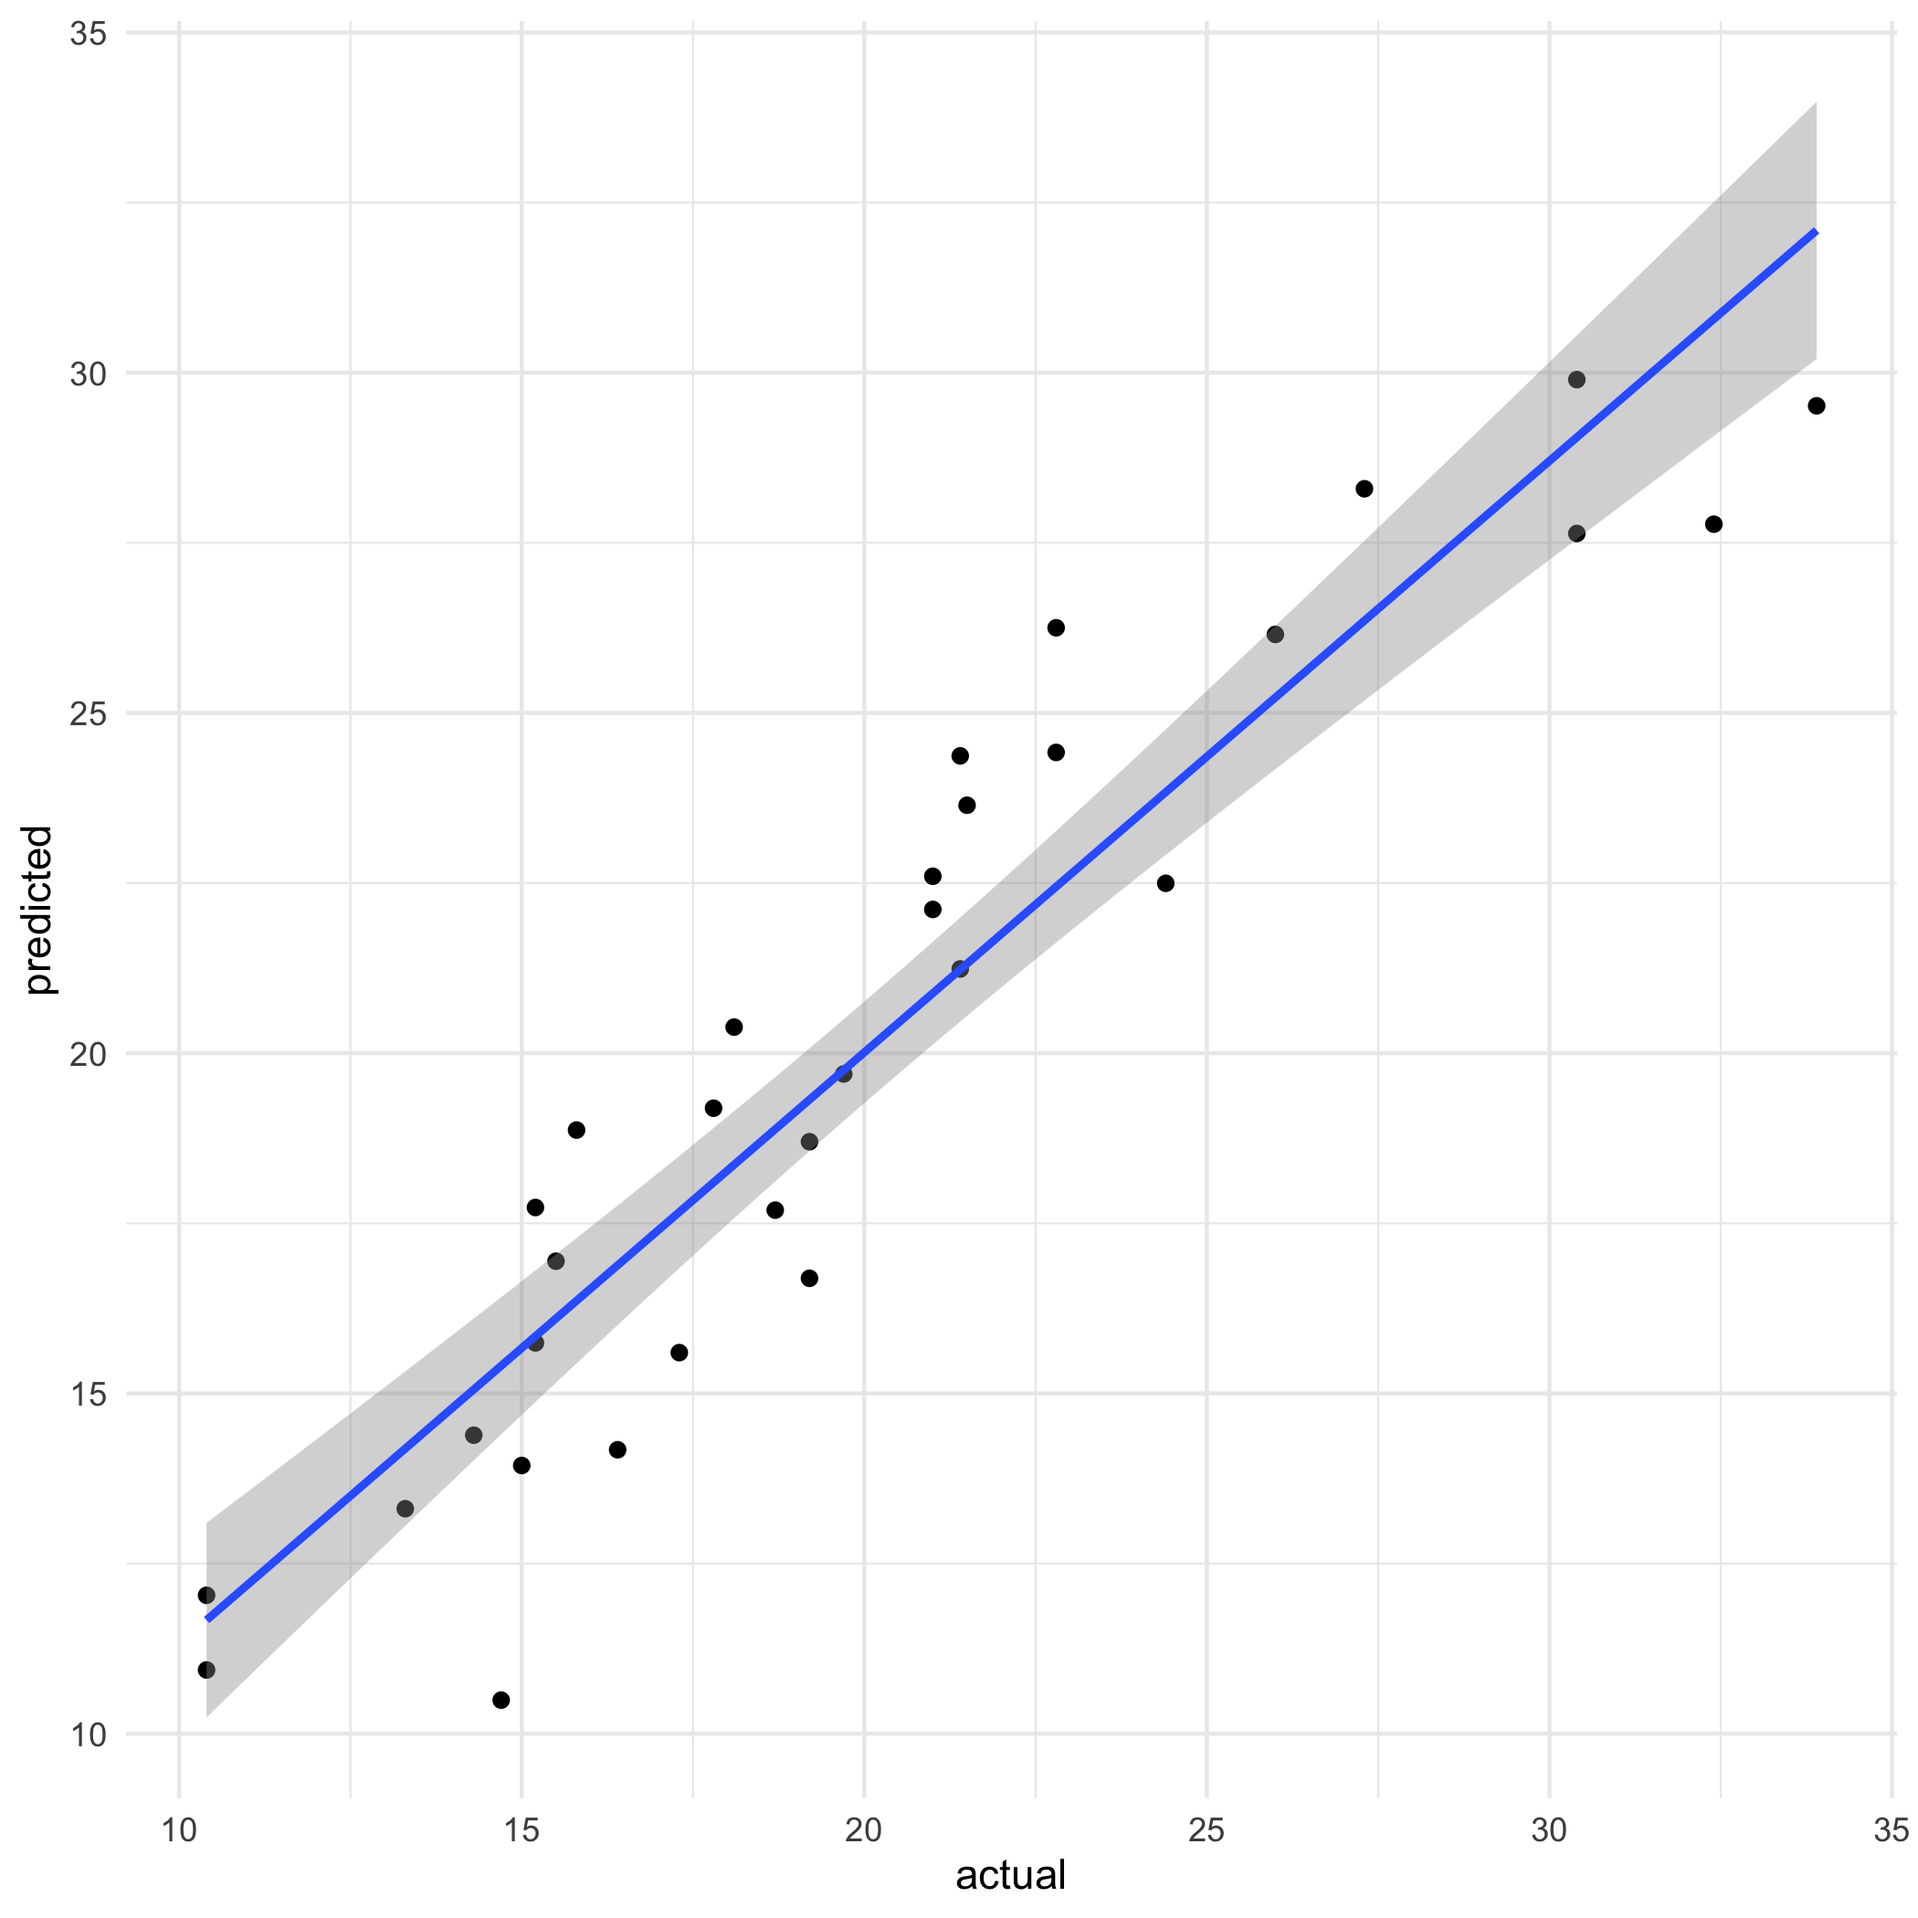
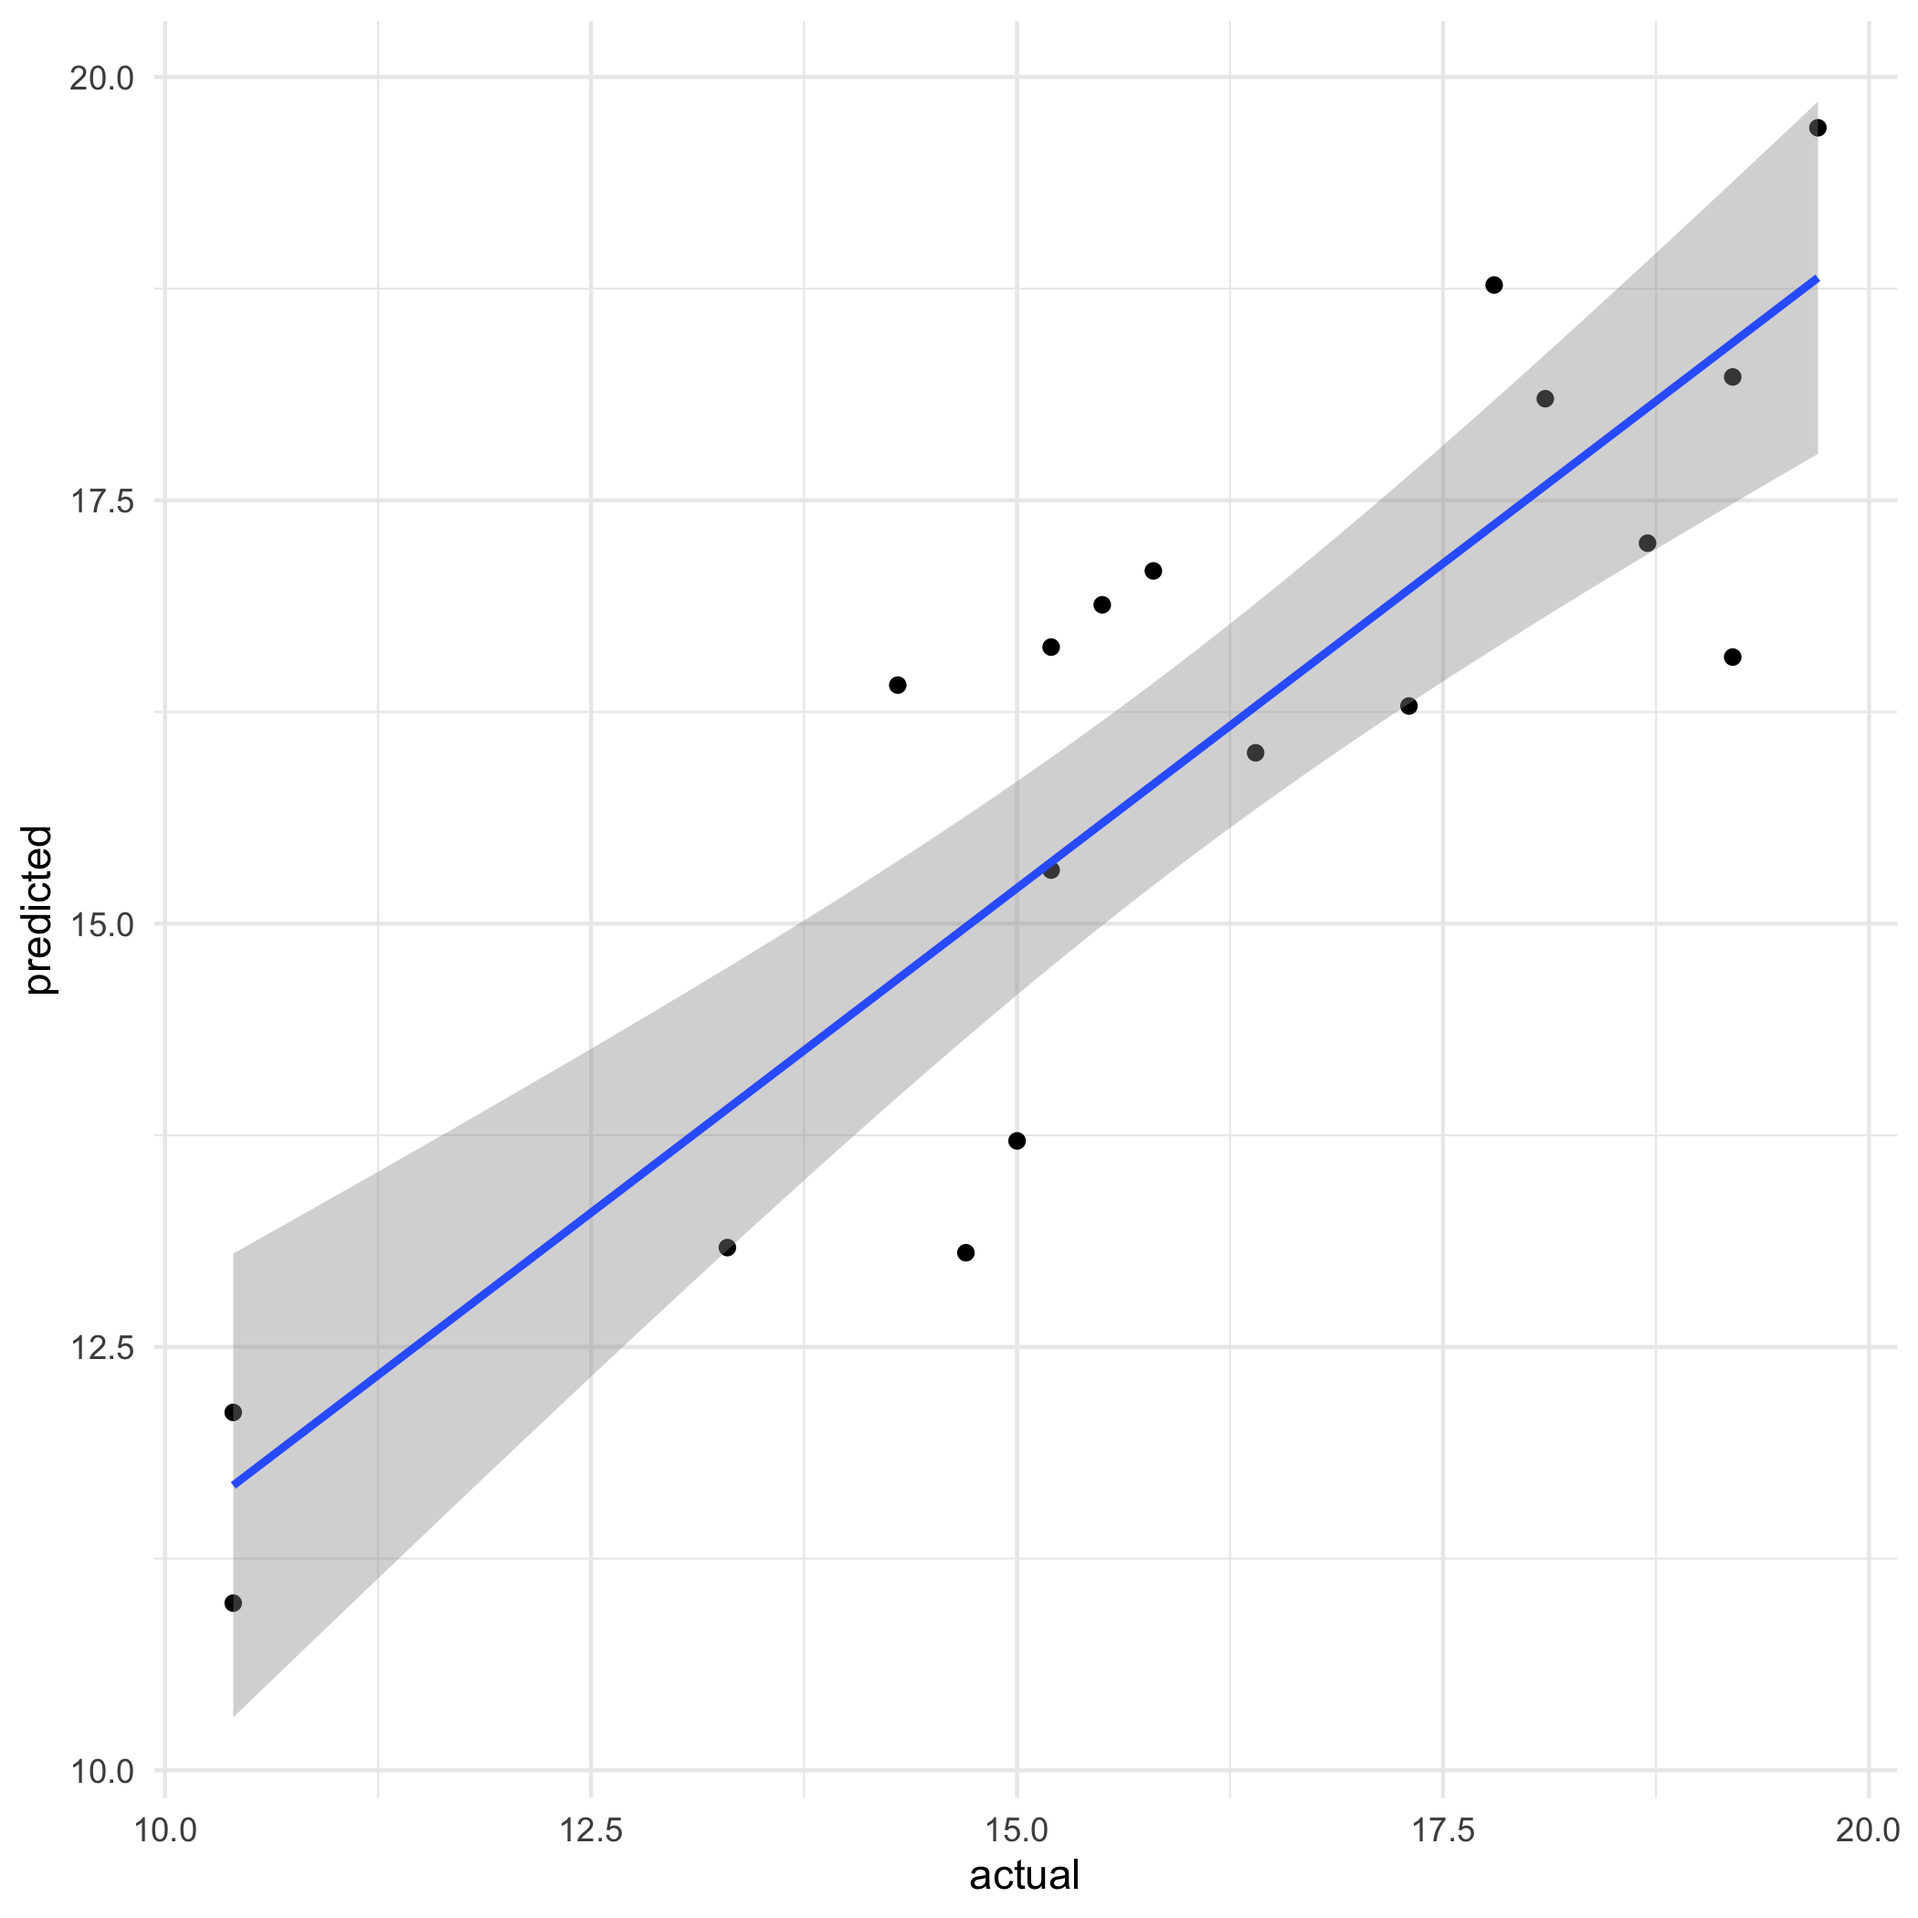
feat: revert to old data processing in example

diff --git a/tables/mtcars_full.tex b/tables/mtcars_full.tex
@@ -1,43 +1,29 @@
 % latex table generated in R 4.2.2 by xtable 1.8-4 package
-% Wed Feb 22 16:37:52 2023
+% Wed Feb 22 17:14:53 2023
 \begin{table}[ht]
 \centering
 \begin{tabular}{rrrrrrrrrrrr}
   \hline
  & mpg & cyl & disp & hp & drat & wt & qsec & vs & am & gear & carb \\ 
   \hline
-1 & 21.00 & 6.00 & 160.00 & 110.00 & 3.90 & 2.62 & 16.46 & 0.00 & 1.00 & 4.00 & 4.00 \\ 
-  2 & 21.00 & 6.00 & 160.00 & 110.00 & 3.90 & 2.88 & 17.02 & 0.00 & 1.00 & 4.00 & 4.00 \\ 
-  3 & 22.80 & 4.00 & 108.00 & 93.00 & 3.85 & 2.32 & 18.61 & 1.00 & 1.00 & 4.00 & 1.00 \\ 
-  4 & 21.40 & 6.00 & 258.00 & 110.00 & 3.08 & 3.21 & 19.44 & 1.00 & 0.00 & 3.00 & 1.00 \\ 
-  5 & 18.70 & 8.00 & 360.00 & 175.00 & 3.15 & 3.44 & 17.02 & 0.00 & 0.00 & 3.00 & 2.00 \\ 
-  6 & 18.10 & 6.00 & 225.00 & 105.00 & 2.76 & 3.46 & 20.22 & 1.00 & 0.00 & 3.00 & 1.00 \\ 
-  7 & 14.30 & 8.00 & 360.00 & 245.00 & 3.21 & 3.57 & 15.84 & 0.00 & 0.00 & 3.00 & 4.00 \\ 
-  8 & 24.40 & 4.00 & 146.70 & 62.00 & 3.69 & 3.19 & 20.00 & 1.00 & 0.00 & 4.00 & 2.00 \\ 
-  9 & 22.80 & 4.00 & 140.80 & 95.00 & 3.92 & 3.15 & 22.90 & 1.00 & 0.00 & 4.00 & 2.00 \\ 
-  10 & 19.20 & 6.00 & 167.60 & 123.00 & 3.92 & 3.44 & 18.30 & 1.00 & 0.00 & 4.00 & 4.00 \\ 
-  11 & 17.80 & 6.00 & 167.60 & 123.00 & 3.92 & 3.44 & 18.90 & 1.00 & 0.00 & 4.00 & 4.00 \\ 
-  12 & 16.40 & 8.00 & 275.80 & 180.00 & 3.07 & 4.07 & 17.40 & 0.00 & 0.00 & 3.00 & 3.00 \\ 
-  13 & 17.30 & 8.00 & 275.80 & 180.00 & 3.07 & 3.73 & 17.60 & 0.00 & 0.00 & 3.00 & 3.00 \\ 
-  14 & 15.20 & 8.00 & 275.80 & 180.00 & 3.07 & 3.78 & 18.00 & 0.00 & 0.00 & 3.00 & 3.00 \\ 
-  15 & 10.40 & 8.00 & 472.00 & 205.00 & 2.93 & 5.25 & 17.98 & 0.00 & 0.00 & 3.00 & 4.00 \\ 
-  16 & 10.40 & 8.00 & 460.00 & 215.00 & 3.00 & 5.42 & 17.82 & 0.00 & 0.00 & 3.00 & 4.00 \\ 
-  17 & 14.70 & 8.00 & 440.00 & 230.00 & 3.23 & 5.34 & 17.42 & 0.00 & 0.00 & 3.00 & 4.00 \\ 
-  18 & 32.40 & 4.00 & 78.70 & 66.00 & 4.08 & 2.20 & 19.47 & 1.00 & 1.00 & 4.00 & 1.00 \\ 
-  19 & 30.40 & 4.00 & 75.70 & 52.00 & 4.93 & 1.61 & 18.52 & 1.00 & 1.00 & 4.00 & 2.00 \\ 
-  20 & 33.90 & 4.00 & 71.10 & 65.00 & 4.22 & 1.83 & 19.90 & 1.00 & 1.00 & 4.00 & 1.00 \\ 
-  21 & 21.50 & 4.00 & 120.10 & 97.00 & 3.70 & 2.46 & 20.01 & 1.00 & 0.00 & 3.00 & 1.00 \\ 
-  22 & 15.50 & 8.00 & 318.00 & 150.00 & 2.76 & 3.52 & 16.87 & 0.00 & 0.00 & 3.00 & 2.00 \\ 
-  23 & 15.20 & 8.00 & 304.00 & 150.00 & 3.15 & 3.44 & 17.30 & 0.00 & 0.00 & 3.00 & 2.00 \\ 
-  24 & 13.30 & 8.00 & 350.00 & 245.00 & 3.73 & 3.84 & 15.41 & 0.00 & 0.00 & 3.00 & 4.00 \\ 
-  25 & 19.20 & 8.00 & 400.00 & 175.00 & 3.08 & 3.85 & 17.05 & 0.00 & 0.00 & 3.00 & 2.00 \\ 
-  26 & 27.30 & 4.00 & 79.00 & 66.00 & 4.08 & 1.94 & 18.90 & 1.00 & 1.00 & 4.00 & 1.00 \\ 
-  27 & 26.00 & 4.00 & 120.30 & 91.00 & 4.43 & 2.14 & 16.70 & 0.00 & 1.00 & 5.00 & 2.00 \\ 
-  28 & 30.40 & 4.00 & 95.10 & 113.00 & 3.77 & 1.51 & 16.90 & 1.00 & 1.00 & 5.00 & 2.00 \\ 
-  29 & 15.80 & 8.00 & 351.00 & 264.00 & 4.22 & 3.17 & 14.50 & 0.00 & 1.00 & 5.00 & 4.00 \\ 
-  30 & 19.70 & 6.00 & 145.00 & 175.00 & 3.62 & 2.77 & 15.50 & 0.00 & 1.00 & 5.00 & 6.00 \\ 
-  31 & 15.00 & 8.00 & 301.00 & 335.00 & 3.54 & 3.57 & 14.60 & 0.00 & 1.00 & 5.00 & 8.00 \\ 
-  32 & 21.40 & 4.00 & 121.00 & 109.00 & 4.11 & 2.78 & 18.60 & 1.00 & 1.00 & 4.00 & 2.00 \\ 
+1 & 18.70 & 8.00 & 360.00 & 175.00 & 3.15 & 3.44 & 17.02 & 0.00 & 0.00 & 3.00 & 2.00 \\ 
+  2 & 18.10 & 6.00 & 225.00 & 105.00 & 2.76 & 3.46 & 20.22 & 1.00 & 0.00 & 3.00 & 1.00 \\ 
+  3 & 14.30 & 8.00 & 360.00 & 245.00 & 3.21 & 3.57 & 15.84 & 0.00 & 0.00 & 3.00 & 4.00 \\ 
+  4 & 19.20 & 6.00 & 167.60 & 123.00 & 3.92 & 3.44 & 18.30 & 1.00 & 0.00 & 4.00 & 4.00 \\ 
+  5 & 17.80 & 6.00 & 167.60 & 123.00 & 3.92 & 3.44 & 18.90 & 1.00 & 0.00 & 4.00 & 4.00 \\ 
+  6 & 16.40 & 8.00 & 275.80 & 180.00 & 3.07 & 4.07 & 17.40 & 0.00 & 0.00 & 3.00 & 3.00 \\ 
+  7 & 17.30 & 8.00 & 275.80 & 180.00 & 3.07 & 3.73 & 17.60 & 0.00 & 0.00 & 3.00 & 3.00 \\ 
+  8 & 15.20 & 8.00 & 275.80 & 180.00 & 3.07 & 3.78 & 18.00 & 0.00 & 0.00 & 3.00 & 3.00 \\ 
+  9 & 10.40 & 8.00 & 472.00 & 205.00 & 2.93 & 5.25 & 17.98 & 0.00 & 0.00 & 3.00 & 4.00 \\ 
+  10 & 10.40 & 8.00 & 460.00 & 215.00 & 3.00 & 5.42 & 17.82 & 0.00 & 0.00 & 3.00 & 4.00 \\ 
+  11 & 14.70 & 8.00 & 440.00 & 230.00 & 3.23 & 5.34 & 17.42 & 0.00 & 0.00 & 3.00 & 4.00 \\ 
+  12 & 15.50 & 8.00 & 318.00 & 150.00 & 2.76 & 3.52 & 16.87 & 0.00 & 0.00 & 3.00 & 2.00 \\ 
+  13 & 15.20 & 8.00 & 304.00 & 150.00 & 3.15 & 3.44 & 17.30 & 0.00 & 0.00 & 3.00 & 2.00 \\ 
+  14 & 13.30 & 8.00 & 350.00 & 245.00 & 3.73 & 3.84 & 15.41 & 0.00 & 0.00 & 3.00 & 4.00 \\ 
+  15 & 19.20 & 8.00 & 400.00 & 175.00 & 3.08 & 3.85 & 17.05 & 0.00 & 0.00 & 3.00 & 2.00 \\ 
+  16 & 15.80 & 8.00 & 351.00 & 264.00 & 4.22 & 3.17 & 14.50 & 0.00 & 1.00 & 5.00 & 4.00 \\ 
+  17 & 19.70 & 6.00 & 145.00 & 175.00 & 3.62 & 2.77 & 15.50 & 0.00 & 1.00 & 5.00 & 6.00 \\ 
+  18 & 15.00 & 8.00 & 301.00 & 335.00 & 3.54 & 3.57 & 14.60 & 0.00 & 1.00 & 5.00 & 8.00 \\ 
    \hline
 \end{tabular}
 \caption{MTCars dataset restricted to observations with $<20$ miles per gallon \label{tab:mtcars_full}} 
